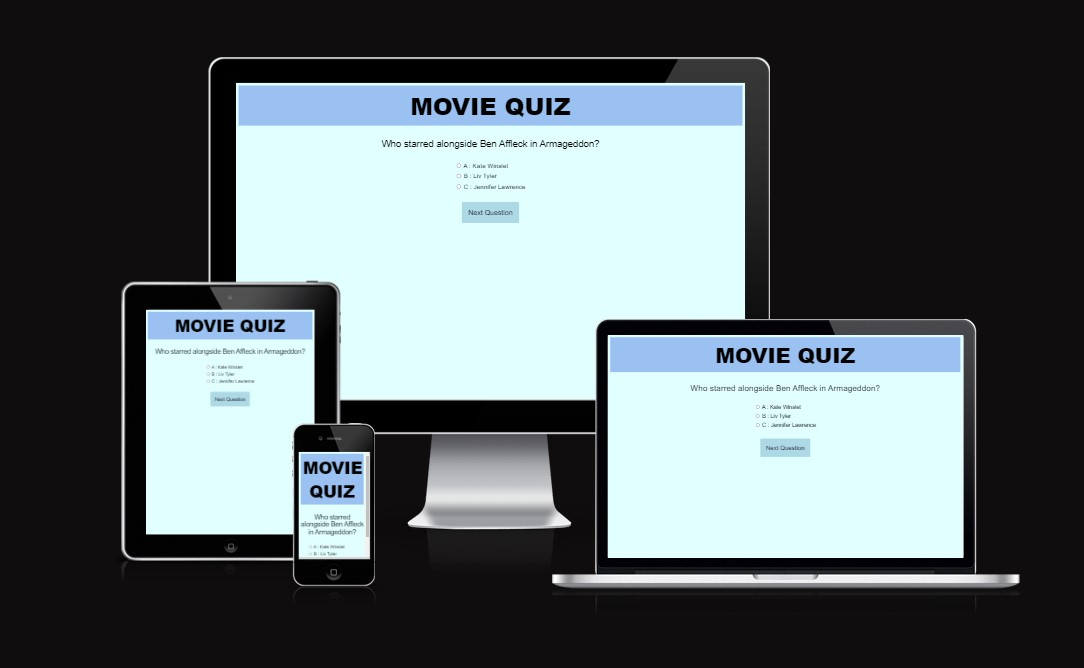
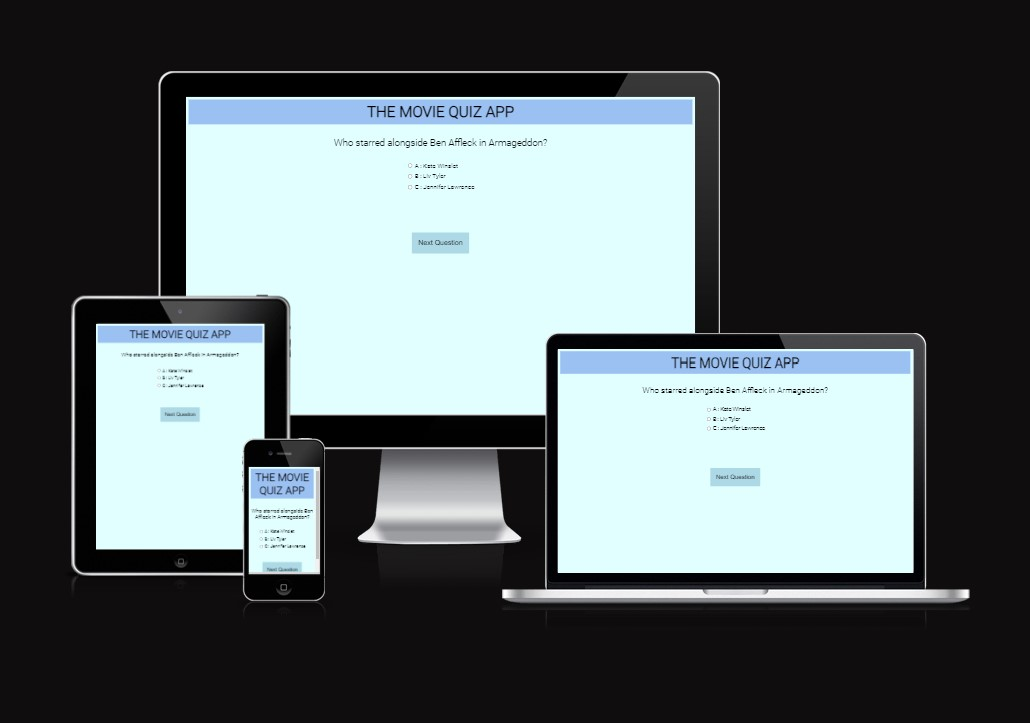
Bug fix for media queries and image urls

Changed region(s): [[0.0621, 0.0599, 0.9631, 0.8982], [0.0, 0.988, 1.0, 1.0]]

diff --git a/assets/css/style.css b/assets/css/style.css
@@ -69,7 +69,7 @@ button:hover {
     margin-top: 40px;
 }
 
-@media only screen and (max-width: 800px) {
+@media only screen and (max-width: 600px) {
     .quiz-container {
         height: 250px;
     }

diff --git a/README.md b/README.md
@@ -47,7 +47,7 @@ Validator Testing
 
 - W3C HTML Validator Result - no errors
 
-![W3C HTML Validator Result](assets/images/w3c-html-validator-result.jpg) 
+![W3C HTML Validator Result](assets/images/w3c-html-validator-result2.jpg)
 
 - Jigsaw Validator Result - no errors
 
@@ -55,7 +55,7 @@ Validator Testing
 
 - Lighthouse results - accessibility at 100%
 
-![Lighthouse Result](assets/images/lighthouse-result.jpg)
+![Lighthouse Result](assets/images/lighthouse-result2.jpg)
 
 # Deployment
 
